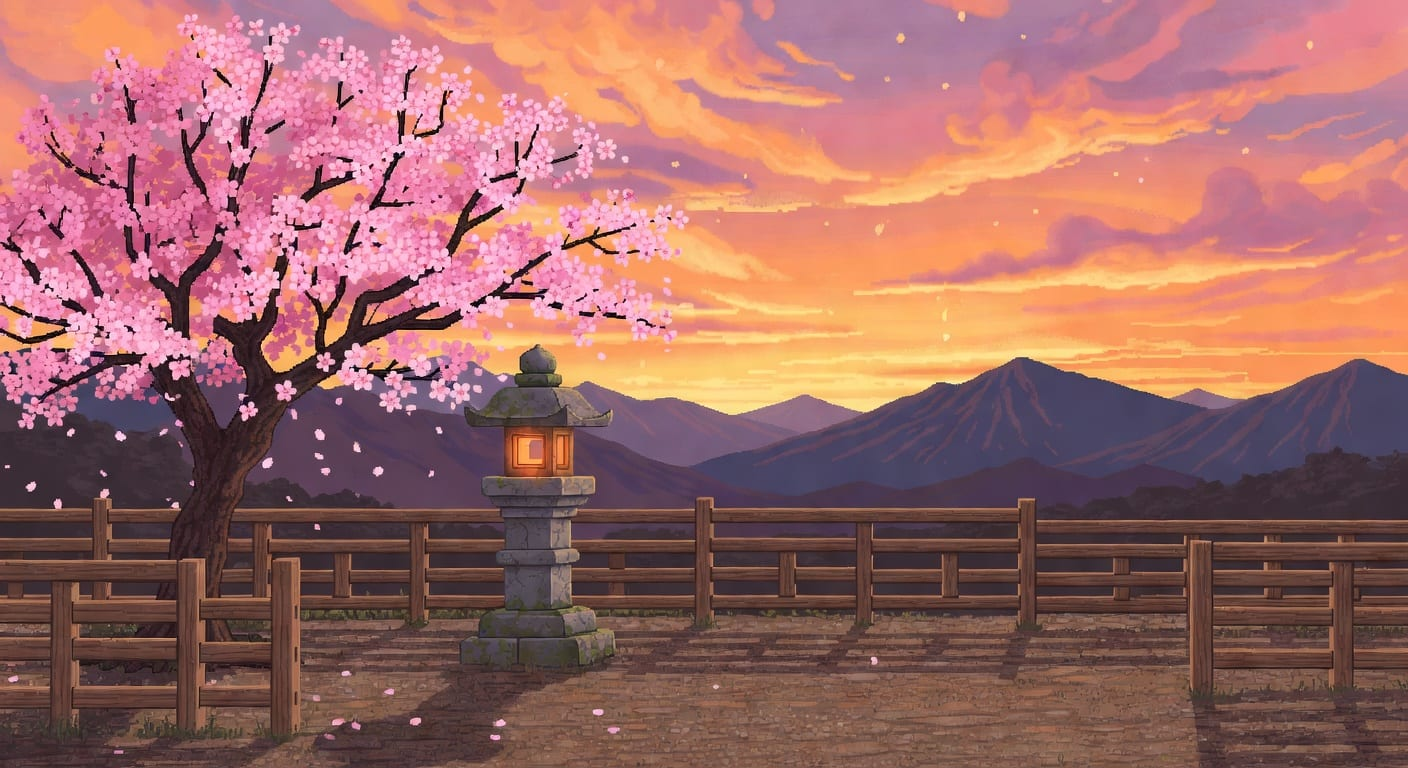
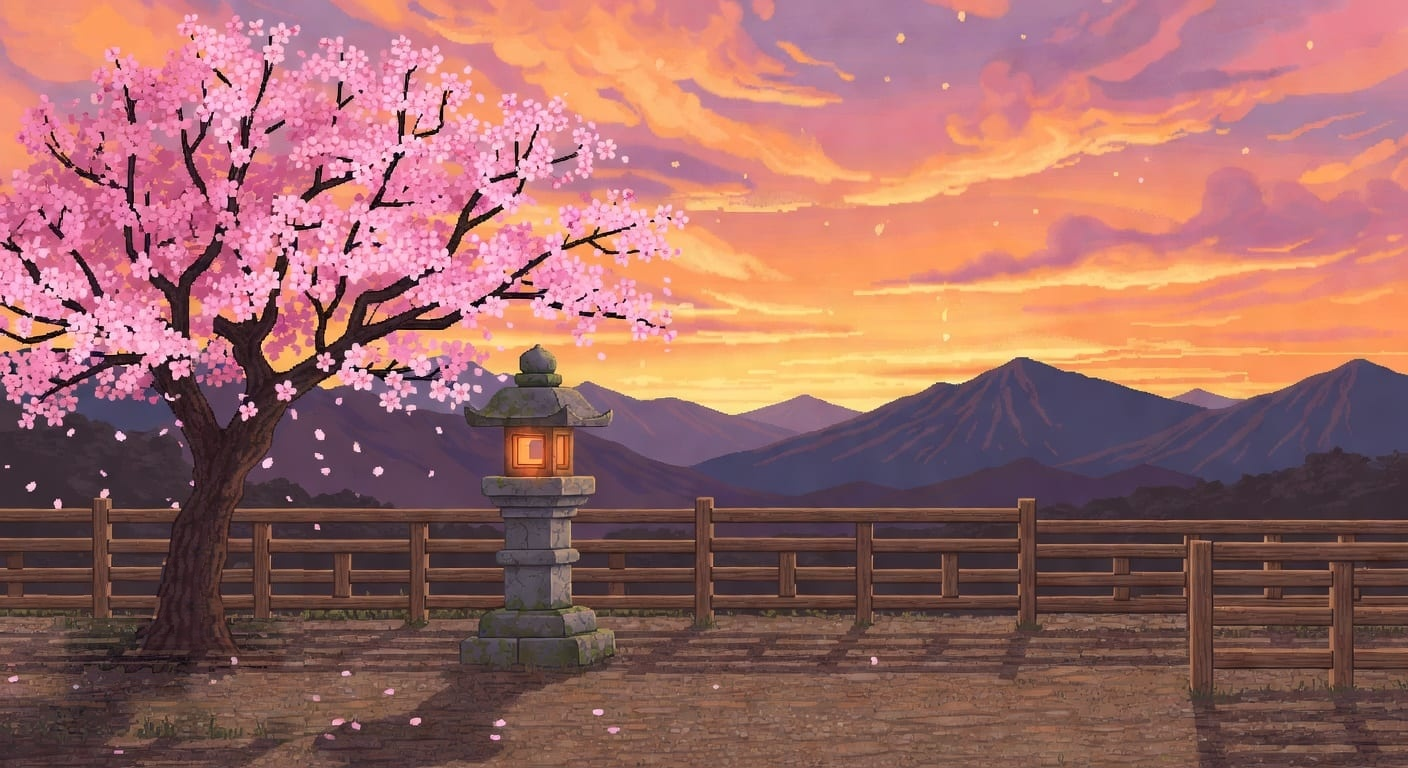
Got sprites in
Also modified the background a bit

Changed region(s): [[0.0, 0.7188, 0.2188, 0.9688]]

diff --git a/IT2/monster_rpg/main.py b/IT2/monster_rpg/main.py
@@ -24,9 +24,9 @@ global_y_pos = HEIGHT - 150
 enemy_x_pos = WIDTH // 2 + 150
 
 enteties = [
-  Entity(100, False, 'blue', (WIDTH // 6 - button_width // 4, global_y_pos)), # Player
-  Entity(200, True, 'black', (enemy_x_pos, global_y_pos)), 
-  Entity(50, True, 'cyan', (enemy_x_pos + 200 + 50 + padding, global_y_pos))
+  Creature(100, False, 'blue', (WIDTH // 6 - button_width // 4, global_y_pos), "VG3/IT/IT2/monster_rpg/assets/images/turtle.webp"), # Player
+  Creature(200, True, 'black', (enemy_x_pos, global_y_pos), "VG3/IT/IT2/monster_rpg/assets/images/samurai.gif"), 
+  Creature(50, True, 'cyan', (enemy_x_pos + 200 + 50 + padding, global_y_pos), "VG3/IT/IT2/monster_rpg/assets/images/samurai.gif")
 ]
 
 player = enteties[0]
@@ -50,8 +50,8 @@ background = pygame.image.load(os.path.join(BASE_DIR, "assets", "images", "backg
 scale = screen.get_height() / background.get_height()
 background = pygame.transform.scale(background, screen.get_size())
 
-fences = pygame.image.load(os.path.join(BASE_DIR, "assets", "images", "foreground_fences.png")).convert_alpha()
-fences = pygame.transform.scale(fences, screen.get_size())
+# fences = pygame.image.load(os.path.join(BASE_DIR, "assets", "images", "foreground_fences.png")).convert_alpha()
+# fences = pygame.transform.scale(fences, screen.get_size())
 
 
 GROUND_Y = int(200 * scale)
@@ -76,13 +76,12 @@ while running:
 
 
   for entety in enteties[:]:
-    if entety.radius <= 0:
+    if entety.health <= 0:
       enteties.remove(entety)
 
       if len(enteties) == 1:
         print("DONE")
         my_funcs.quit_game()
-        pass
 
   # VISUAL
 
@@ -92,7 +91,7 @@ while running:
   for entety in enteties:
      entety.draw_self(screen)
 
-  screen.blit(fences, (0, 0))
+  # screen.blit(fences, (0, 0))
 
   for button in buttons:
         button.draw_self(screen)

diff --git a/IT2/monster_rpg/classes.py b/IT2/monster_rpg/classes.py
@@ -1,36 +1,52 @@
 import pygame
 
 class Entity:
-  def __init__(self, radius : int, hostile : bool, color : str, pos : tuple):
-    self.radius = radius
+  def __init__(self, pos : tuple):
+    self.pos = pos
+  
+
+class Creature(Entity):
+  def __init__(self, health : int, hostile : bool, color : str, pos : tuple, sprite : str):
+    super().__init__(pos)
     self.hostile = hostile
+    self.health = health
 
     self.color = color
 
+    self.sprite = sprite
+
     self.pos = pos
-    self.rect = pygame.Rect(0, 0, self.radius, self.radius)
-    self.rect.center = self.pos
+    # self.rect = pygame.Rect(0, 0, self.radius, self.radius)
+    # self.rect.center = self.pos
 
   def take_damage(self, damage):
-    self.radius -= damage
-    if self.radius <= 0:
+    self.health -= damage
+    if self.health <= 0:
       return False
     
   def draw_self(self, screen):
-    pygame.draw.circle(screen, self.color, (self.pos), self.radius)
-    pass
+    
+    self.image = pygame.image.load(self.sprite)
+    self.image_rect = self.image.get_rect(center=self.pos)
+
+    if self.hostile:
+      screen.blit(pygame.transform.flip(self.image, True, False), self.image_rect)
+    else:
+      screen.blit(self.image, self.image_rect)
+    # pygame.draw.circle(screen, self.color, (self.pos), self.radius)
 
 
-class Button:
+class Button(Entity):
   
   def __init__(self, width : int, height : int, color : str, hover_color : str, pos : tuple, text : str, on_click=None, border_radius=5):
     if color == None:
       color = 'blue'
+    super().__init__(pos)
     self.width = width
     self.height = height
     self.color = color
     self.border_radius = border_radius
-    self.pos = pos
+    
     self.on_click = on_click
 
     self.text = text
